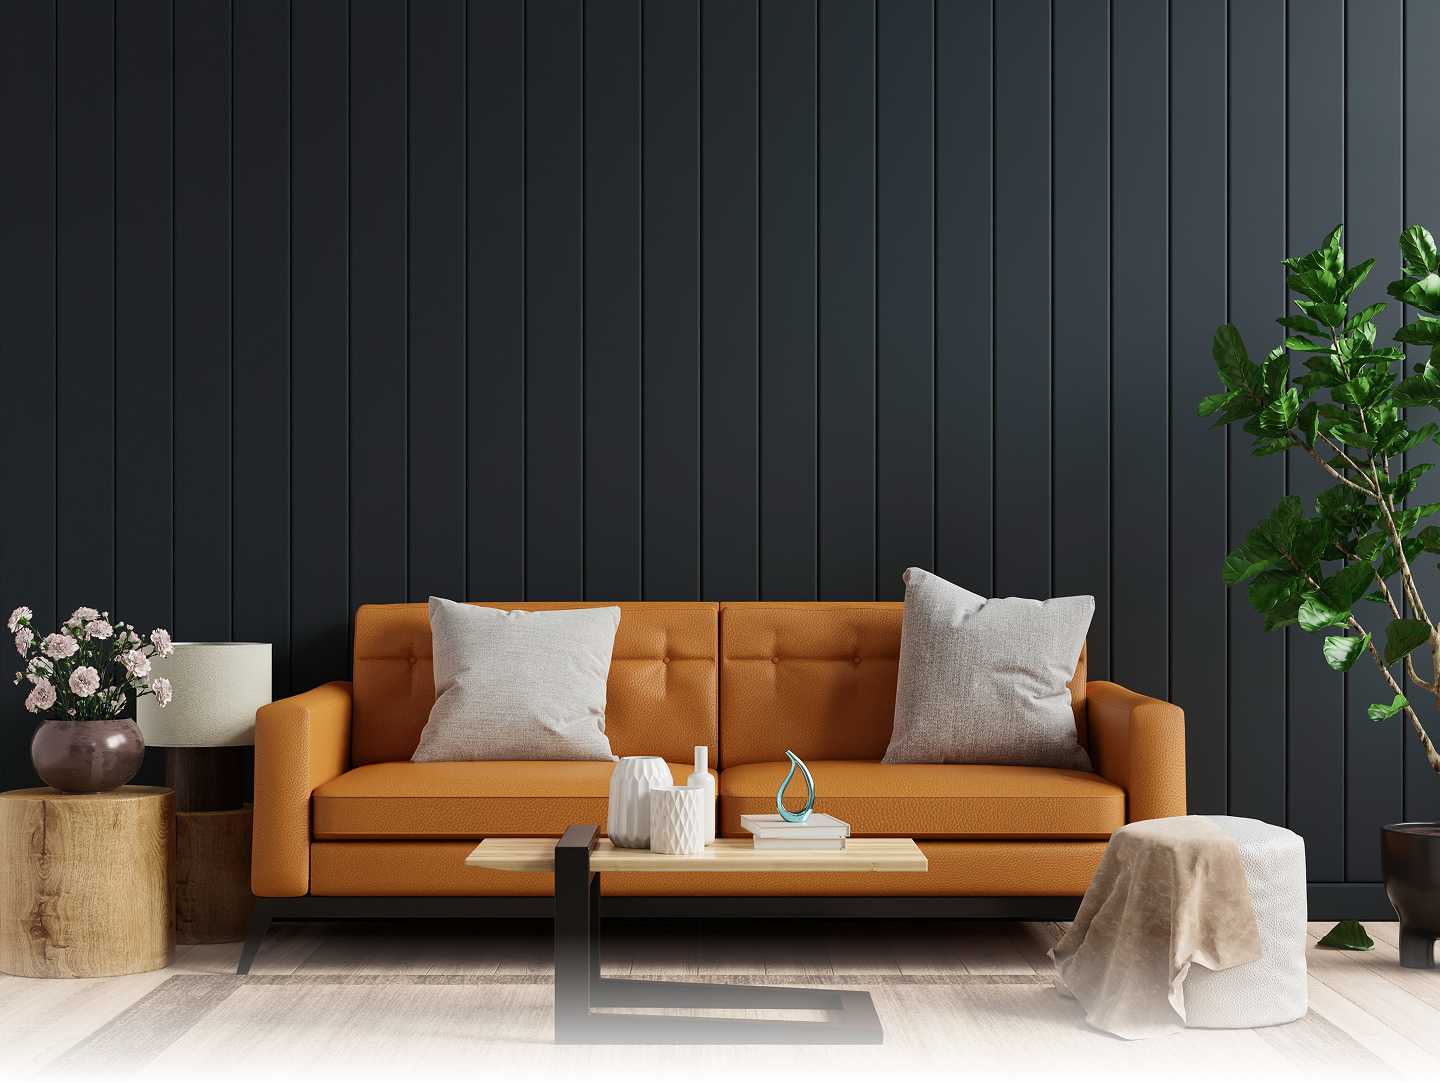
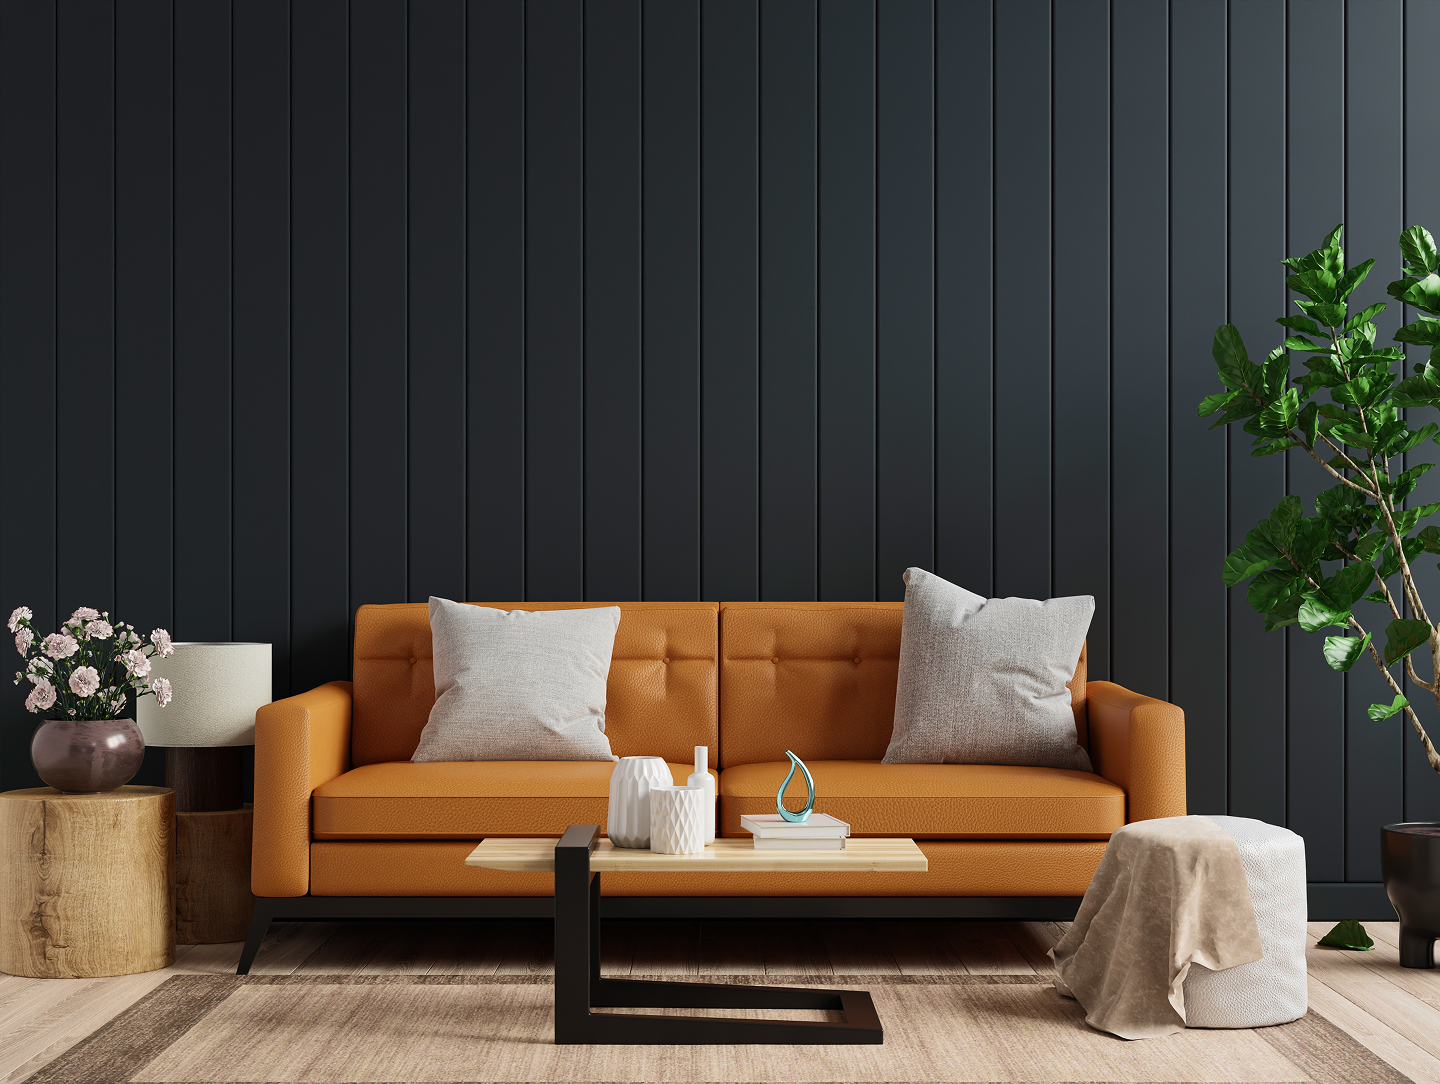
fix: implement hero gradient and review rendering with bg, add animations

Changed region(s): [[0.0, 0.8524, 1.0, 1.0]]

diff --git a/js/data/reviews.js b/js/data/reviews.js
@@ -4,6 +4,7 @@ export const reviews = [
         name: 'Bang Upin',
         role: 'Pedagang Asongan',
         avatar: 'assets/images/avatars/avatar-1.png',
+        background: 'assets/images/reviews/review-1.png',
         quote: 'Terimakasih banyak, kini ruanganku menjadi lebih mewah dan terlihat mahal',
         rating: 5
     },
@@ -12,6 +13,7 @@ export const reviews = [
         name: 'Ibuk Sukijan',
         role: 'Ibu Rumah Tangga',
         avatar: 'assets/images/avatars/avatar-2.png',
+        background: 'assets/images/reviews/review-2.png',
         quote: 'Makasih Panto, aku sekarang berasa tinggal di apartment karena barang-barang yang terlihat mewah',
         rating: 4
     },
@@ -20,31 +22,35 @@ export const reviews = [
         name: 'Mpok Ina',
         role: 'Karyawan Swasta',
         avatar: 'assets/images/avatars/avatar-3.png',
+        background: 'assets/images/reviews/review-3.png',
         quote: 'Sangat terjangkau untuk kantong saya yang tidak terlalu banyak',
         rating: 3
     },
     {
-        id: 4,
+        id: 1,
         name: 'Bang Upin',
         role: 'Pedagang Asongan',
         avatar: 'assets/images/avatars/avatar-1.png',
+        background: 'assets/images/reviews/review-1.png',
         quote: 'Terimakasih banyak, kini ruanganku menjadi lebih mewah dan terlihat mahal',
         rating: 5
     },
     {
-        id: 5,
+        id: 2,
         name: 'Ibuk Sukijan',
         role: 'Ibu Rumah Tangga',
         avatar: 'assets/images/avatars/avatar-2.png',
+        background: 'assets/images/reviews/review-2.png',
         quote: 'Makasih Panto, aku sekarang berasa tinggal di apartment karena barang-barang yang terlihat mewah',
         rating: 4
     },
     {
-        id: 6,
+        id: 3,
         name: 'Mpok Ina',
         role: 'Karyawan Swasta',
         avatar: 'assets/images/avatars/avatar-3.png',
+        background: 'assets/images/reviews/review-3.png',
         quote: 'Sangat terjangkau untuk kantong saya yang tidak terlalu banyak',
         rating: 3
-    }
+    },
 ]

diff --git a/js/modules/products.js b/js/modules/products.js
@@ -1,4 +1,4 @@
-import { products } from '../data/products.js'
+import products from '../data/products.js'
 
 export function initProducts() {
     const productsGrid = document.querySelector('.products__grid')
@@ -14,9 +14,9 @@ export function initProducts() {
             <article class="products__card" data-id="${product.id}" data-category="${product.category}">
                 <div class="products__card-top">
                     <img
-                            class="products__card-image"
-                            src="${product.image}"
-                            alt="${product.title}"
+                        class="products__card-image"
+                        src="${product.image}"
+                        alt="${product.title}"
                     >
                 </div>
                 <div class="products__card-body">

diff --git a/js/data/products.js b/js/data/products.js
@@ -1,4 +1,4 @@
-export const products = [
+const products = [
     {
         id: 'chair-1',
         title: 'Sakarias Armchair',
@@ -54,6 +54,24 @@ export const products = [
         rating: 5
     },
     {
+        id: 'chair-7',
+        title: 'Nyantuy Chair 7',
+        category: 'chair',
+        categoryName: 'Chair',
+        price: 921,
+        image: 'assets/images/chairs/chair-4.png',
+        rating: 5
+    },
+    {
+        id: 'chair-8',
+        title: 'Nyantuy Chair 8',
+        category: 'chair',
+        categoryName: 'Chair',
+        price: 921,
+        image: 'assets/images/chairs/chair-4.png',
+        rating: 5
+    },
+    {
         id: 'bed-1',
         title: 'Nyantuy Bed',
         category: 'beds',
@@ -81,3 +99,4 @@ export const products = [
         rating: 5
     },
 ]
+export default products

diff --git a/scss/components/_reviews.scss b/scss/components/_reviews.scss
@@ -38,7 +38,8 @@
     transition: v.$transition-normal;
   }
   &__slider-btn {
-    @include m.slider-button;
+    @include m.slider-button(40%);
+    box-shadow: 0 4px 12px rgba(0, 0, 0, 0.08);
     width: 50px;
     height: 50px;
 
@@ -85,6 +86,7 @@
   min-width: 0;
   display: flex;
   justify-content: center;
+  @include m.image-cover;
 
   &::after {
     content: '';
@@ -165,17 +167,4 @@
       max-width: 260px;
     }
   }
-}
-
-.review--1 {
-  background-image: url('../../assets/images/reviews/review-1.png');
-  @include m.image-cover;
-}
-.review--2 {
-  background-image: url('../../assets/images/reviews/review-2.png');
-  @include m.image-cover;
-}
-.review--3 {
-  background-image: url('../../assets/images/reviews/review-3.png');
-  @include m.image-cover;
 }

diff --git a/scss/components/_products.scss b/scss/components/_products.scss
@@ -46,6 +46,21 @@
       background-color: v.$card-top-color;
       border-top-left-radius: 20px;
       border-top-right-radius: 20px;
+
+      &::after {
+        content: "";
+        position: absolute;
+        top: 55%;
+        left: 50%;
+        transform: translateX(-50%);
+
+        width: 50%;
+        height: 60px;
+
+        border-radius: 50%;
+        background: rgba(0, 0, 0, 0.15);
+        filter: blur(12px);
+      }
     }
     &-image {
       position: absolute;
@@ -110,6 +125,7 @@
   }
   &__slider-btn {
     @include m.slider-button;
+    box-shadow: 0 4px 12px rgba(0, 0, 0, 0.08);
 
     width: 50px;
     height: 50px;

diff --git a/scss/layout/_page-top.scss b/scss/layout/_page-top.scss
@@ -5,10 +5,16 @@
   flex-direction: column;
 
   aspect-ratio: auto;
-  max-height: 1080px;
+  min-height: 100vh;
 
-  background-image: url("../../assets/images/bg/bg.jpg");
-  @include m.image-cover(bottom);
+  background-image:
+          linear-gradient(to bottom,
+            rgba(255, 255, 255, 0) 0%,
+            rgba(255, 255, 255, 0) 85%,
+            rgba(255, 255, 255, 1) 100%
+          ),
+          url("../../assets/images/bg/bg.jpg");
+  @include m.image-cover(center);
 
   @media(max-width: 768px) {
     min-height: auto;

diff --git a/js/modules/reviews.js b/js/modules/reviews.js
@@ -5,7 +5,10 @@ export function renderReviews() {
     if(!reviewsTrack) return
 
     reviewsTrack.innerHTML = reviews.map((review) => `
-        <article class="review review--${review.id}">
+        <article 
+            class="review"
+            style="background-image: url(${review.background})"
+        >
             <div class="review__body">
                 <img class="review__avatar" src="${review.avatar}" alt="${review.name}">
                 <h3 class="review__name">${review.name}</h3>

diff --git a/scss/components/_why-us.scss b/scss/components/_why-us.scss
@@ -2,7 +2,7 @@
 
 .why-us {
   color: v.$text-color-secondary;
-  margin-top: 120px;
+  padding-top: 120px;
 
   &__inner {
     display: flex;
@@ -68,7 +68,7 @@
     &__title { min-width: 0; }
   }
   @media(max-width: 768px) {
-    margin-top: 60px;
+    padding-top: 60px;
     &__advantages { flex-direction: column; gap: 0; }
     &__advantage { padding-bottom: 40px; }
     &__title { font-size: 28px; }

diff --git a/scss/components/_hero.scss b/scss/components/_hero.scss
@@ -31,11 +31,12 @@
       border: 1px solid rgba(#FFFFFF, 0.6);
       border-radius: v.$radius-lg;
       background-color: rgba(255, 255, 255, 0.15);
+      backdrop-filter: blur(8px);
 
       &::placeholder {
         font-size: 18px;
         color: v.$text-color-primary;
-        filter: opacity(0.8);
+        opacity: .8;
         line-height: 150%;
       }
       &:focus {

diff --git a/js/modules/cart/cart.js b/js/modules/cart/cart.js
@@ -1,4 +1,4 @@
-import { products } from '../../data/products.js';
+import products from '../../data/products.js';
 import { saveCart, loadCart } from "./cart-storage.js";
 import { renderCart, updateCartCount, countCartTotal } from "./cart-render.js";
 

diff --git a/scss/abstracts/_mixins.scss b/scss/abstracts/_mixins.scss
@@ -21,9 +21,9 @@
   border-radius: 50%;
 }
 
-@mixin slider-button {
+@mixin slider-button($top: 50%) {
   position: absolute;
-  top: 50%;
+  top: $top;
   transform: translateY(-50%);
   z-index: 2;
 
